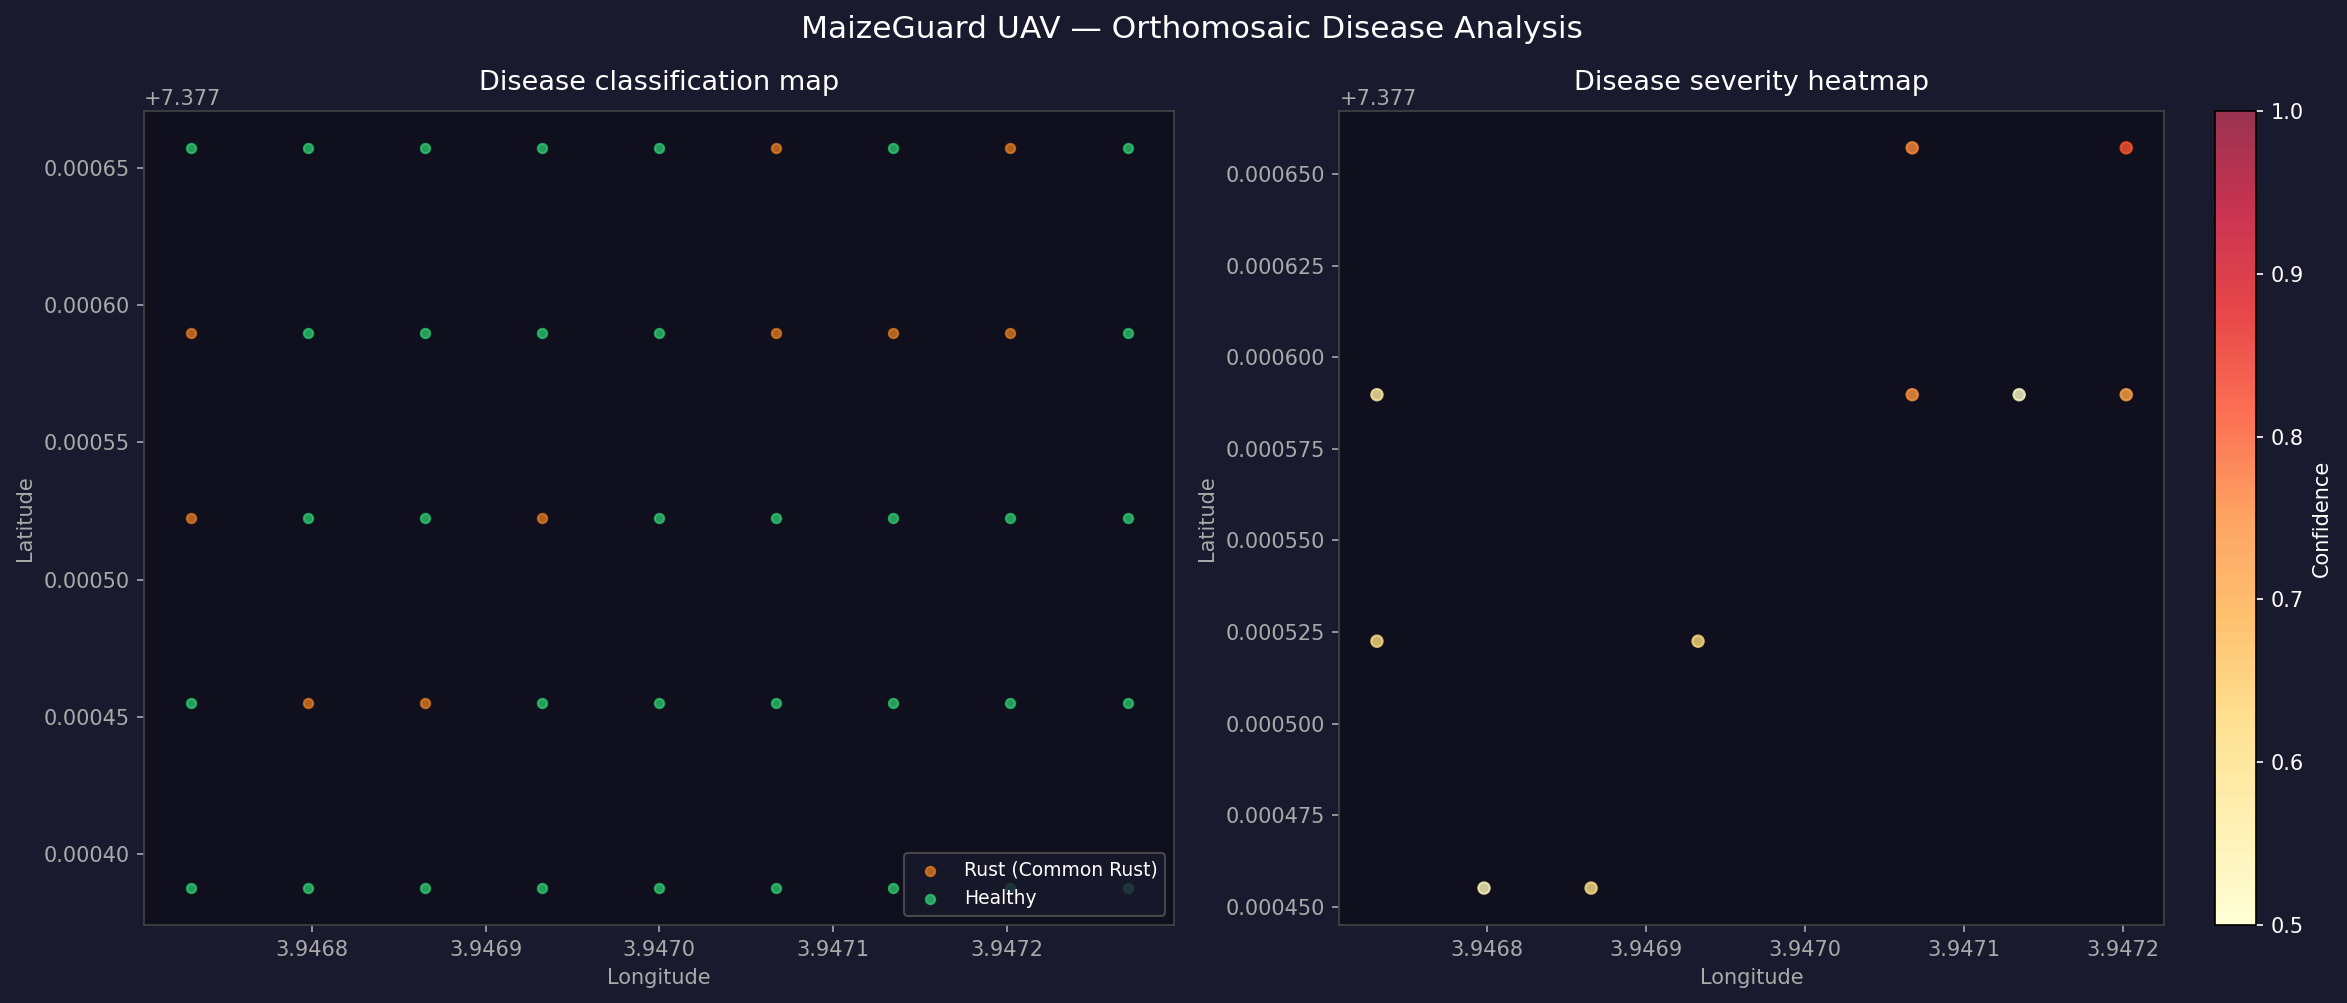
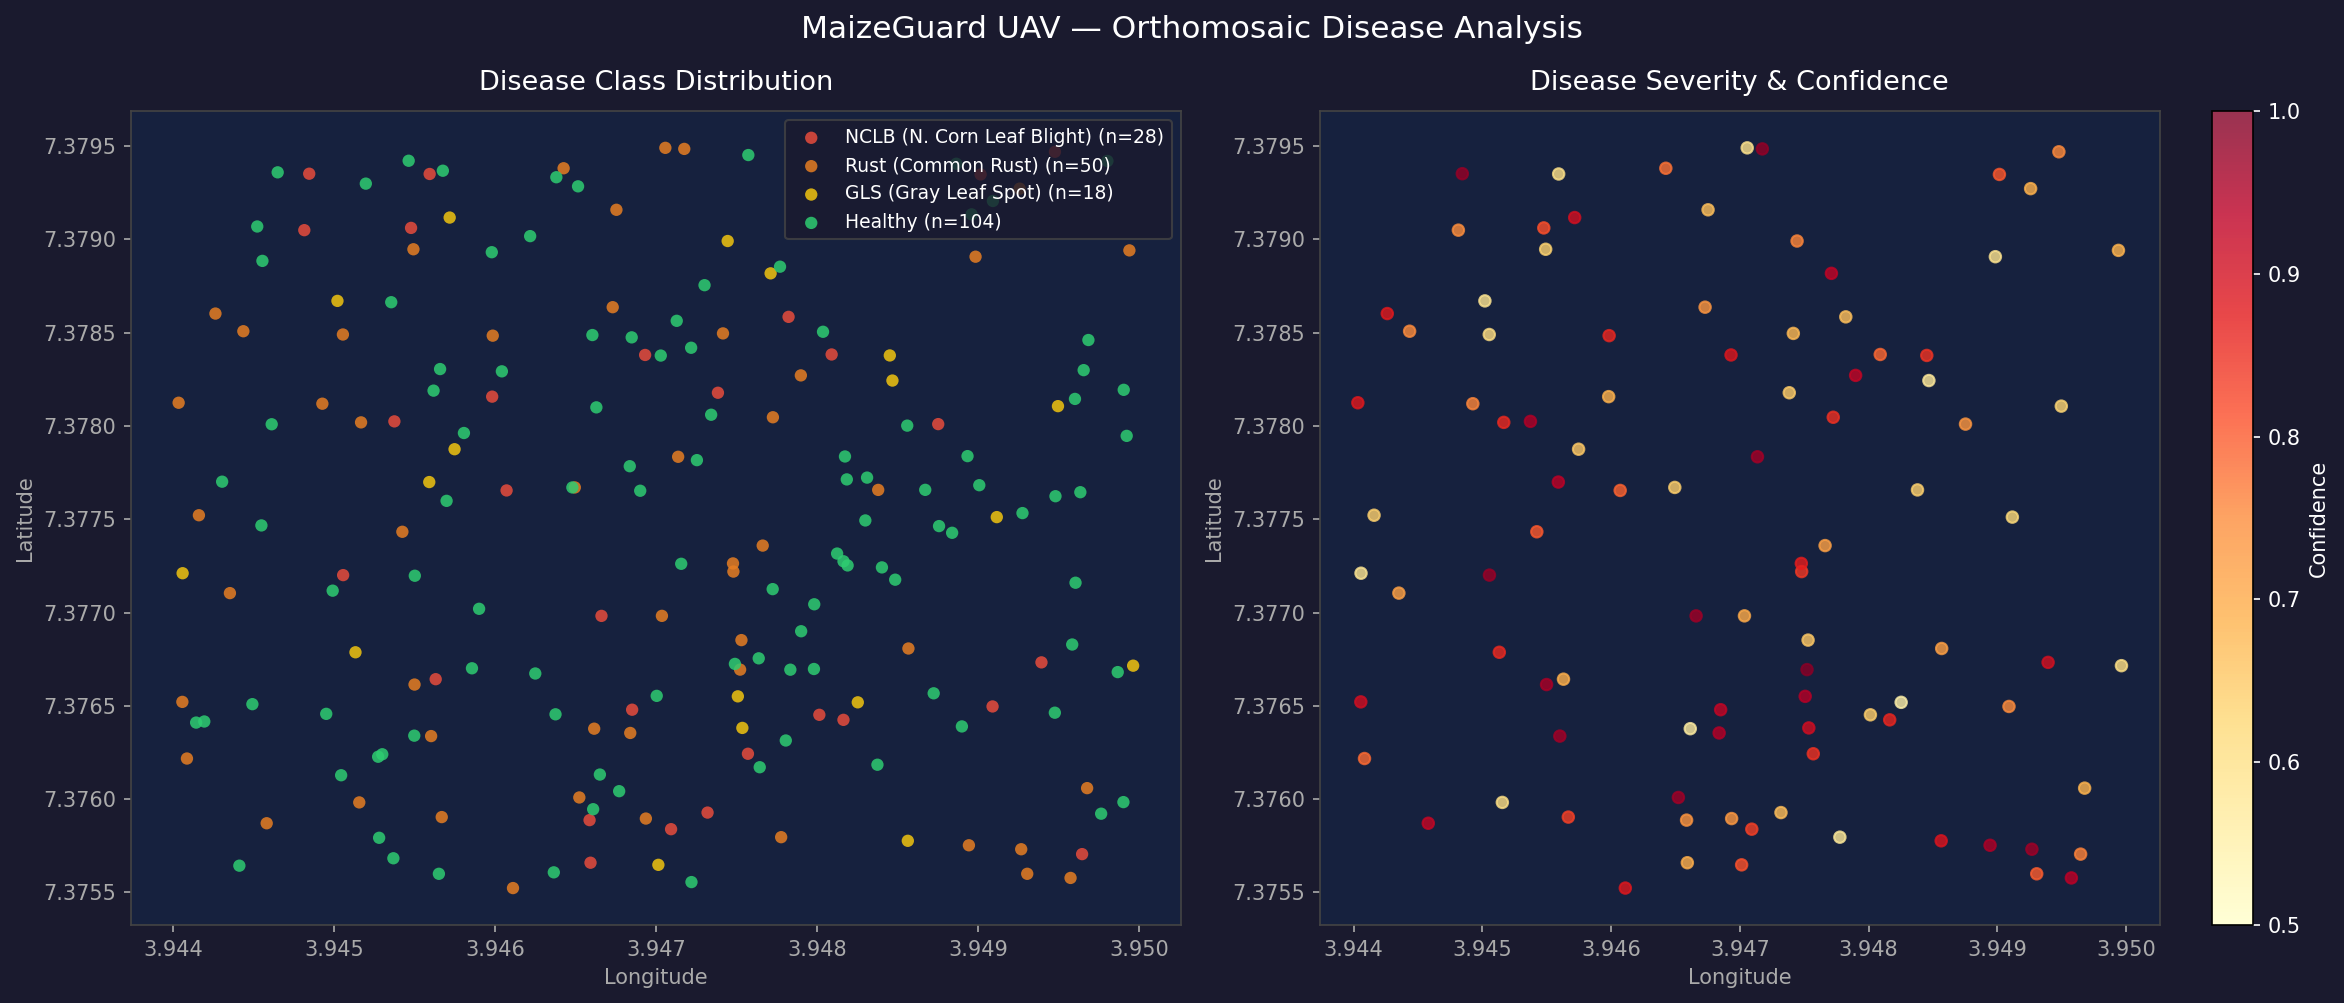
fix(python): set Python 3.11 as global default, rebuild .venv, and fix type annotations in heatmap and patch_runner

diff --git a/src/phase5_uav/heatmap.py b/src/phase5_uav/heatmap.py
@@ -27,22 +27,18 @@ from collections import Counter, defaultdict
 from typing import List, Dict, Any
 
 # ── Optional deps — graceful degradation ─────────────────────────────────────
-folium = None
-HeatMap = None
-MarkerCluster = None
 try:
     import folium
     from folium.plugins import HeatMap, MarkerCluster
     HAS_FOLIUM = True
 except ImportError:
     HAS_FOLIUM = False
+    folium: Any = None
+    HeatMap: Any = None
+    MarkerCluster: Any = None
     print("Warning: folium not installed. Interactive HTML map will be skipped.")
     print("  Install: pip install folium")
 
-matplotlib = None
-plt = None
-mpatches = None
-to_rgba = None
 try:
     import matplotlib
     matplotlib.use("Agg")
@@ -52,6 +48,10 @@ try:
     HAS_MPL = True
 except ImportError:
     HAS_MPL = False
+    matplotlib: Any = None
+    plt: Any = None
+    mpatches: Any = None
+    to_rgba: Any = None
     print("Warning: matplotlib not installed. Static PNG will be skipped.")
 
 # ── Class styling ─────────────────────────────────────────────────────────────
@@ -143,7 +143,7 @@ def build_folium_map(predictions: List[Dict], output_html: str) -> None:
         ).add_to(m)
 
     # ── Per-class marker clusters ──────────────────────────────────────────
-    cluster_groups: Dict[str, MarkerCluster] = {}
+    cluster_groups: Dict[str, Any] = {}
     for cls in CLASS_INFO:
         fg = folium.FeatureGroup(name=cls, show=(cls != "Healthy"))
         cluster_groups[cls] = MarkerCluster().add_to(fg)
@@ -190,7 +190,7 @@ def build_folium_map(predictions: List[Dict], output_html: str) -> None:
             f'{info["label"]}<br>'
         )
     legend_html += "</div>"
-    m.get_root().html.add_child(folium.Element(legend_html))
+    getattr(m.get_root(), "html").add_child(folium.Element(legend_html))
 
     folium.LayerControl(collapsed=False).add_to(m)
 
@@ -205,38 +205,44 @@ def build_static_map(predictions: List[Dict], output_png: str) -> None:
     if not HAS_MPL:
         return
 
-    fig, axes = plt.subplots(1, 2, figsize=(16, 7))
+    fig, (ax1, ax2) = plt.subplots(1, 2, figsize=(16, 7),
+                                   facecolor="#1a1a2e")
     fig.patch.set_facecolor("#1a1a2e")
 
     lats = [p["lat"] for p in predictions]
     lons = [p["lon"] for p in predictions]
 
-    # Left — scatter by class
-    ax = axes[0]
-    ax.set_facecolor("#0f0f1e")
-    ax.set_title("Disease classification map", color="white", fontsize=13, pad=10)
+    # Subplot 1: Categorical scatter
+    ax1.set_facecolor("#16213e")
+    ax1.set_title("Disease Class Distribution", color="white", fontsize=13, pad=10)
     for cls, info in CLASS_INFO.items():
-        pts = [(p["lon"], p["lat"]) for p in predictions if p["class_name"] == cls]
-        if pts:
-            xs, ys = zip(*pts)
-            ax.scatter(xs, ys, c=info["color"], s=20, alpha=0.75,
-                       label=info["label"], zorder=3)
-    ax.set_xlabel("Longitude", color="#aaa")
-    ax.set_ylabel("Latitude",  color="#aaa")
-    ax.tick_params(colors="#aaa")
-    for spine in ax.spines.values():
+        sub = [p for p in predictions if p["class_name"] == cls]
+        if not sub:
+            continue
+        ax1.scatter(
+            [p["lon"] for p in sub],
+            [p["lat"] for p in sub],
+            c=info["color"],
+            label=f"{info['label']} (n={len(sub)})",
+            s=35,
+            alpha=0.85,
+            edgecolors="none",
+        )
+    ax1.set_xlabel("Longitude", color="#aaa")
+    ax1.set_ylabel("Latitude",  color="#aaa")
+    ax1.tick_params(colors="#aaa")
+    for spine in ax1.spines.values():
         spine.set_edgecolor("#444")
-    ax.legend(loc="lower right", fontsize=9,
-              facecolor="#1a1a2e", edgecolor="#555", labelcolor="white")
+    ax1.legend(loc="upper right", facecolor="#1a1a2e", edgecolor="#444",
+               labelcolor="white", fontsize=9)
 
-    # Right — confidence-weighted disease intensity scatter
-    ax2 = axes[1]
-    ax2.set_facecolor("#0f0f1e")
-    ax2.set_title("Disease severity heatmap", color="white", fontsize=13, pad=10)
+    # Subplot 2: Density / confidence scatter (disease only)
+    ax2.set_facecolor("#16213e")
+    ax2.set_title("Disease Severity & Confidence", color="white", fontsize=13, pad=10)
     disease = [p for p in predictions if p["class_name"] != "Healthy"]
     if disease:
-        dlats = [p["lat"]        for p in disease]
-        dlons = [p["lon"]        for p in disease]
+        dlats = [p["lat"] for p in disease]
+        dlons = [p["lon"] for p in disease]
         confs = [p["confidence"] for p in disease]
         sc = ax2.scatter(dlons, dlats, c=confs, cmap="YlOrRd",
                          s=30, alpha=0.8, vmin=0.5, vmax=1.0, zorder=3)

diff --git a/src/phase5_uav/patch_runner.py b/src/phase5_uav/patch_runner.py
@@ -106,7 +106,7 @@ def load_image(path: str) -> Tuple[np.ndarray, GeoTransform]:
             arr = np.moveaxis(arr, 0, -1)      # → (H, W, 3)
             if arr.dtype != np.uint8:
                 arr = (arr / arr.max() * 255).astype(np.uint8)
-            t: Affine = src.transform
+            t = src.transform
             gt = GeoTransform(t.c, t.f, t.a, t.e)
         return arr, gt
 
